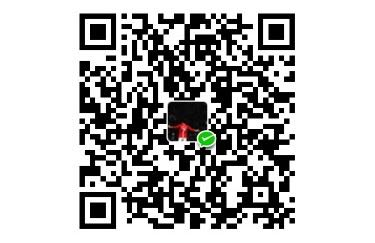
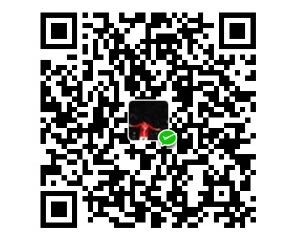
*打赏

diff --git a/resources/views/post/rightMenu.blade.php b/resources/views/post/rightMenu.blade.php
@@ -30,7 +30,7 @@
 
     <div class="widget">
         <h4 class="title">打赏</h4>
-        <div class="content community">
+        <div class="content community text-center">
             <p><img src="{{ asset ("/pika/img/payme.jpg") }}" alt=""></p>
         </div>
     </div>
